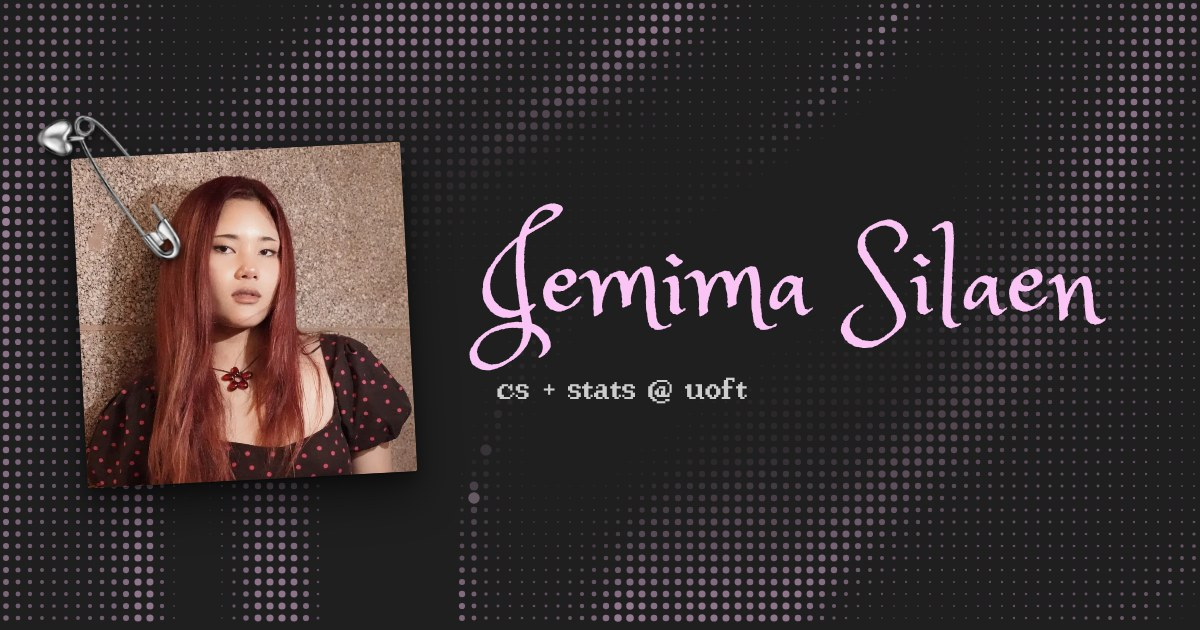
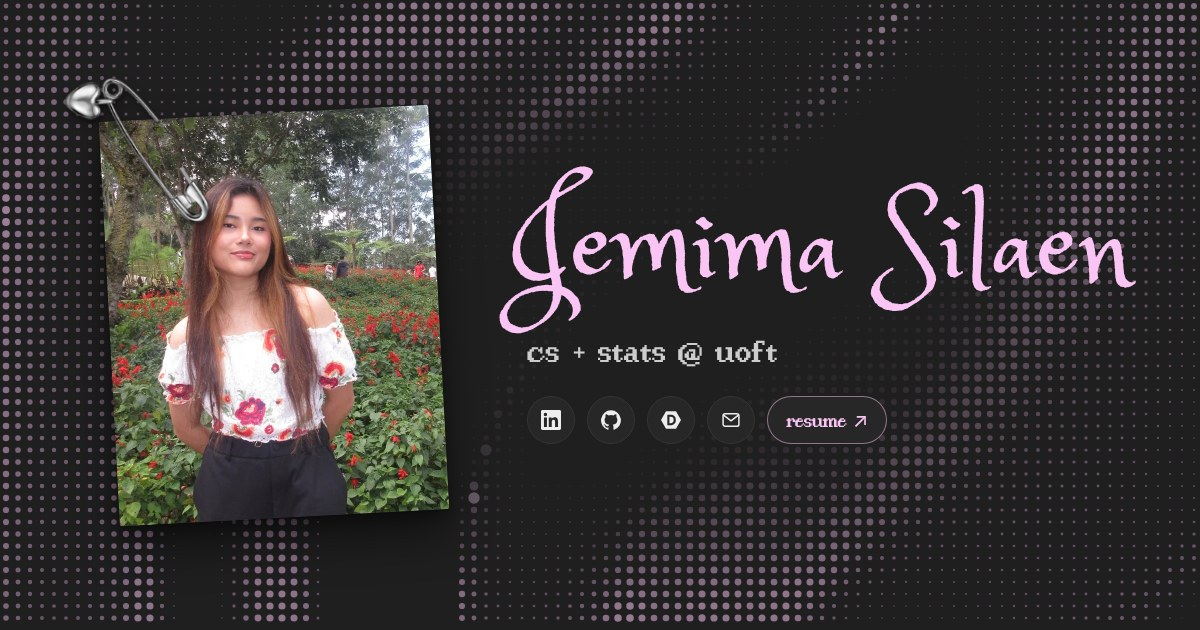
remove button

diff --git a/styles.css b/styles.css
@@ -227,21 +227,6 @@ p { margin: 0; }
 }
 .socials a:hover { transform: translateY(-3px) scale(1.06); background: var(--pink); color: var(--base); border-color: var(--pink); }
 .socials svg { width: 21px; height: 21px; fill: currentColor; }
-.socials .socials__resume a {
-  width: auto;
-  padding: 0 18px 0 20px;
-  border-radius: 999px;
-  gap: 8px;
-  display: inline-flex; align-items: center;
-  font-family: var(--title);
-  font-size: 1.15rem;
-  letter-spacing: .03em;
-  text-decoration: none;
-  color: var(--pink);
-  border-color: rgba(250,197,244,.5);
-  -webkit-font-smoothing: none;
-}
-.socials .socials__resume a:hover { color: var(--base); background: var(--pink); border-color: var(--pink); }
 .socials a[aria-label="Email"] svg { fill: none; }
 
 .hero__scroll {

diff --git a/index.html b/index.html
@@ -82,9 +82,6 @@
             <svg viewBox="0 0 24 24" aria-hidden="true" fill="none" stroke="currentColor" stroke-width="1.8" stroke-linecap="round" stroke-linejoin="round"><rect x="2.5" y="4.5" width="19" height="15" rx="2.5"/><path d="m3.5 6.5 8.5 6.5 8.5-6.5"/></svg>
           </a>
         </li>
-        <li class="socials__resume">
-          <a href="assets/Jemima_Silaen_Resume.pdf" target="_blank" rel="noopener">resume <span aria-hidden="true">↗</span></a>
-        </li>
       </ul>
       </div>
     </div>
